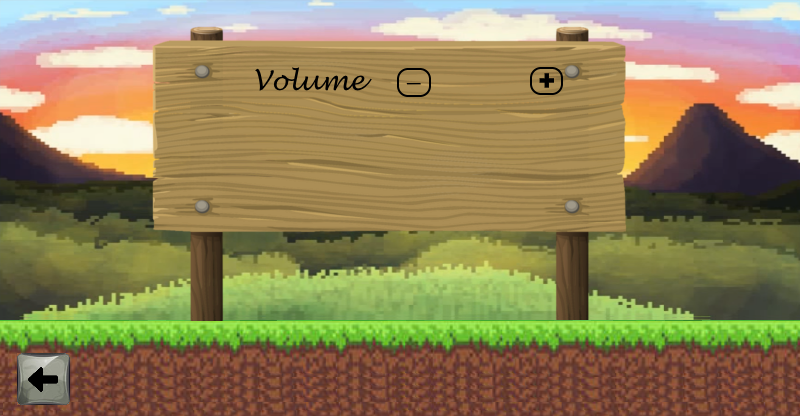
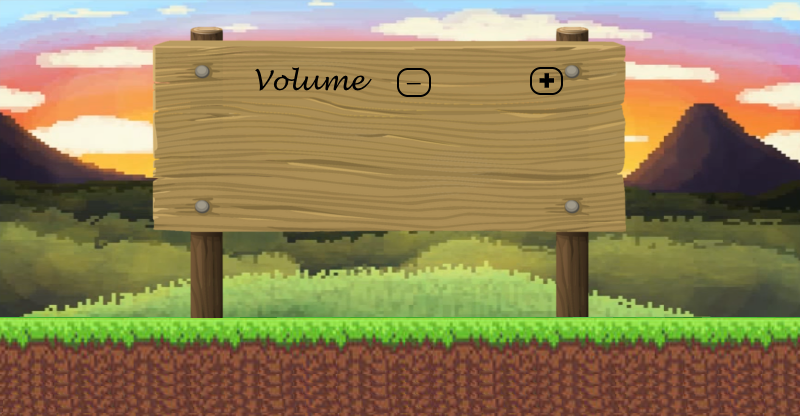
Fixed OptionScreen and OptionScreen.png

Changed region(s): [[0.0, 0.75, 1.0, 1.0]]

diff --git a/core/src/com/paladinzzz/game/screens/OptionScreen.java b/core/src/com/paladinzzz/game/screens/OptionScreen.java
@@ -77,7 +77,7 @@ public class OptionScreen implements Screen{
             }
         });
 
-        drawableBack = new TextureRegionDrawable(new TextureRegion(noTexture));
+        drawableBack = new TextureRegionDrawable(new TextureRegion(backTexture));
         backButton = new ImageButton(drawableBack);
         backButton.addListener(new ClickListener(){
             @Override
@@ -90,16 +90,17 @@ public class OptionScreen implements Screen{
         //Hiermee kunnen elementen nu aan de stage worden toegevoegd
         Gdx.input.setInputProcessor(stage);
 
-        //Een table wordt aangemaakt om de back button toe te voegen.
         table = new Table();
-        table.top();
-        table.add(soundMButton).expandX().padBottom(240);
-        table.add().expandX().padBottom(240);
-        table.add(soundPButton).expandX().padBottom(240);
-        table.row();
+        //table.debug();
         table.bottom();
         table.setFillParent(true);
-        table.add(backButton).padBottom(13).padRight(640);
+        table.add().expandX().padRight(10);
+        table.add(soundMButton).expandX().padBottom(240).padLeft(20);
+        table.add(soundPButton).expandX().padBottom(240).padRight(30);
+        table.add().expandX();
+        table.add().expandX();
+        table.row();
+        table.add(backButton).padBottom(13).padRight(160);
         stage.addActor(table);
     }
 
